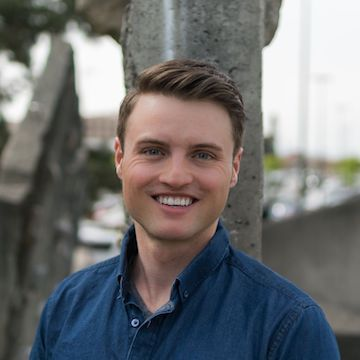
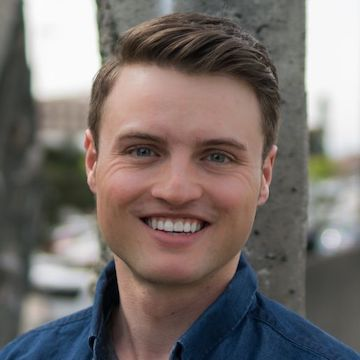
update colin's profile

diff --git a/content/team/colin-summers.md b/content/team/colin-summers.md
@@ -2,13 +2,13 @@
 title: 'Colin Summers'
 date: 2018-11-19T10:47:58+10:00
 draft: false
-image: 'team/csummers.jpg'
+image: 'team/csummers-cropped2.jpg'
 jobtitle: 'Codemaster'
-email: 'michajoh@cs.washington.edu'
-linkedinurl: 'https://www.linkedin.com/'
+email: 'colinxs@cs.washington.edu'
+websiteurl: 'https://colinxsummers.com/'
 weight: 7
 ---
 
-Lorem ipsum dolor sit amet, consectetur adipiscing elit, sed do eiusmod tempor incididunt ut labore et dolore magna aliqua. Ut enim ad minim veniam, quis nostrud exercitation ullamco laboris nisi ut aliquip ex ea commodo consequat.
+Colin Summers is a BS/MS student in the Paul G. Allen School of Computer Science & Engineering and is advised by Prof. Siddhartha Srinivasa. He is primarily interested in algorithms that enable intelligent machines to acquire general notions of intelligence in order to robustly solve complex and temporally-extended tasks in real-world settings.
 
-Duis aute irure dolor in reprehenderit in voluptate velit esse cillum dolore eu fugiat nulla pariatur. Excepteur sint occaecat cupidatat non proident, sunt in culpa qui officia deserunt mollit anim id est laborum.
+Colin works to design and implement performant control and perception algorithms that enable realtime autonomous operation of MuSHR. He also helps wrangle the growing MuSHR software ecosystem.
